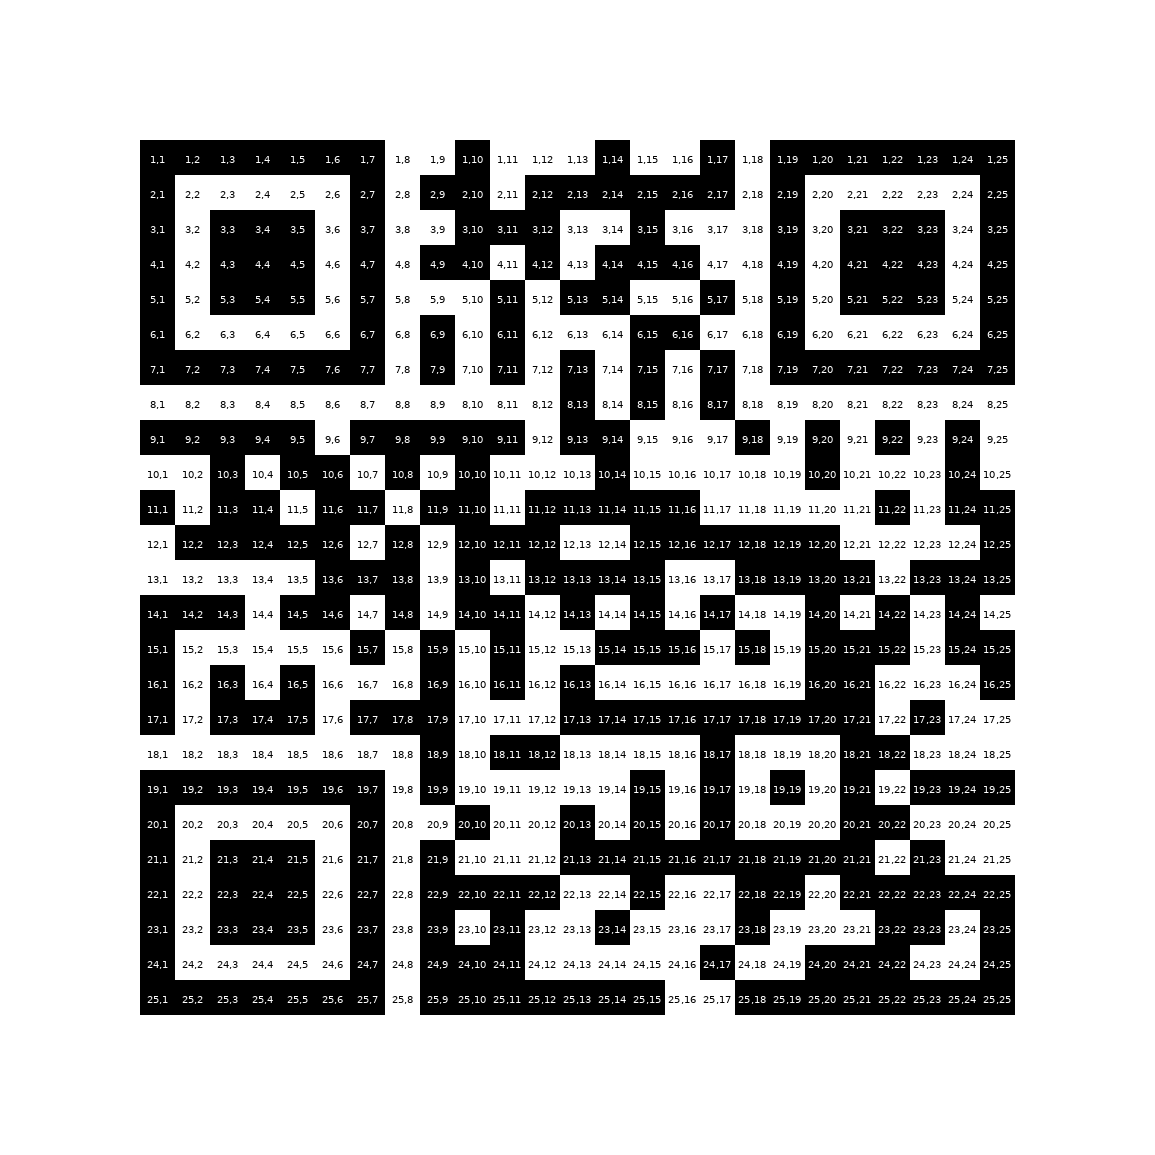
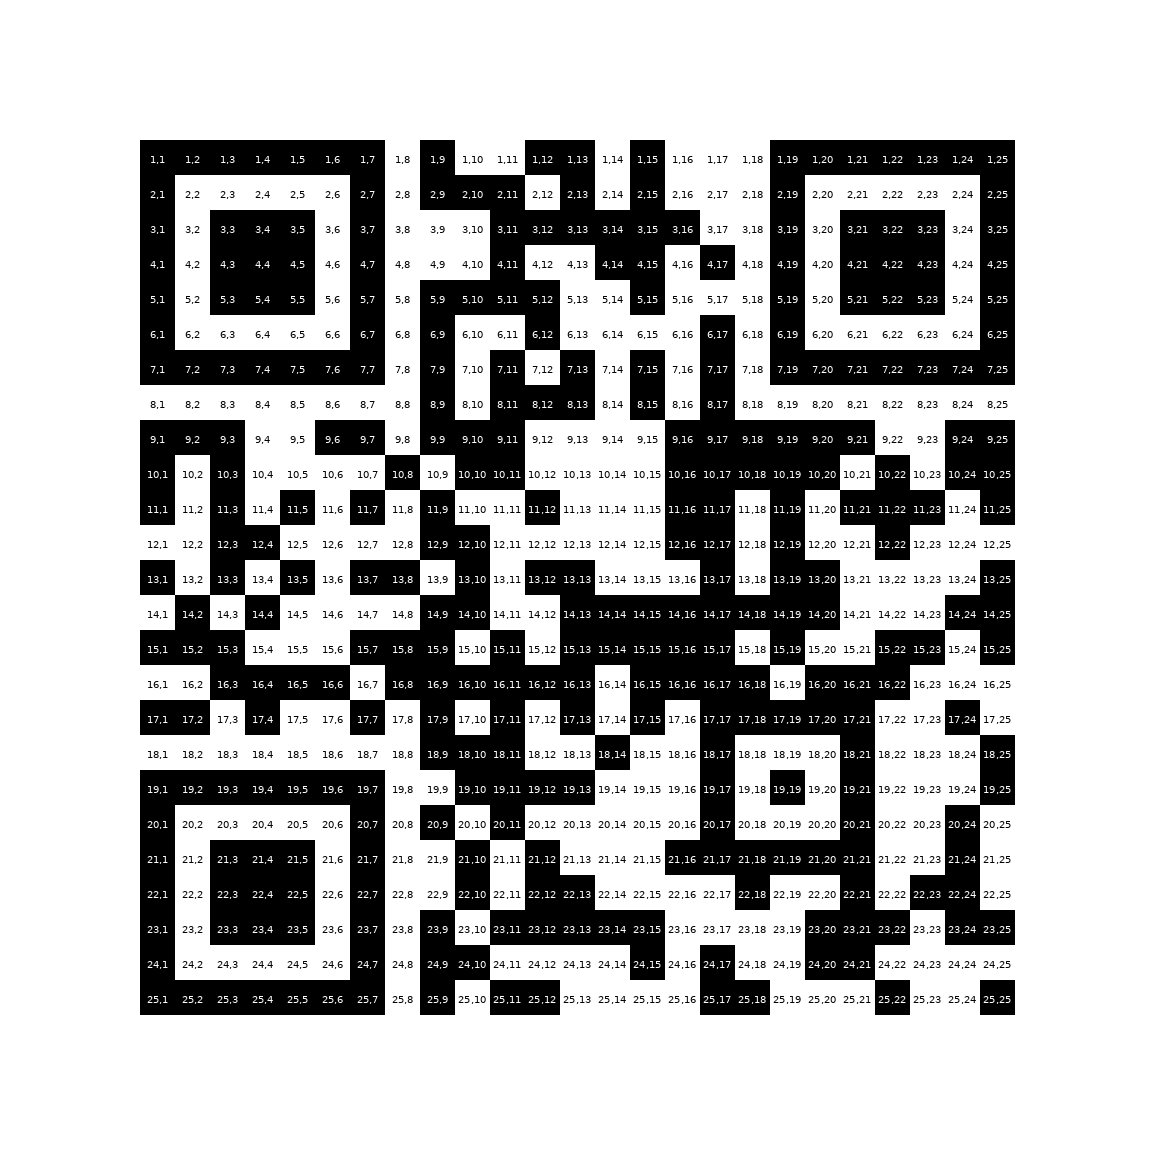
added requirements file etc

Changed region(s): [[0.0935, 0.0935, 0.9039, 0.9039], [0.1247, 0.374, 0.1558, 0.4364]]

diff --git a/qr/main4.py b/qr/main4.py
@@ -32,7 +32,8 @@ def create_coordinated_qr_image(data, filename="coordinated_qr_code.png"):
     """
     # --- 1. Generate the QR code structure ---
     qr = qrcode.QRCode(
-        version=2,
+            # version=2,
+        version=3,
         error_correction=qrcode.constants.ERROR_CORRECT_L,
         box_size=35,  # The size of each cell in pixels
         border=4,  # The width of the border (quiet zone) in cells
@@ -93,5 +94,6 @@ def create_coordinated_qr_image(data, filename="coordinated_qr_code.png"):
 
 
 if __name__ == "__main__":
-    my_link = "https://tinyurl.com/vermaa"
+    # my_link = "https://tinyurl.com/vermaa"
+    my_link = "https://instagram.com/anurag_verma_india"
     create_coordinated_qr_image(my_link)
